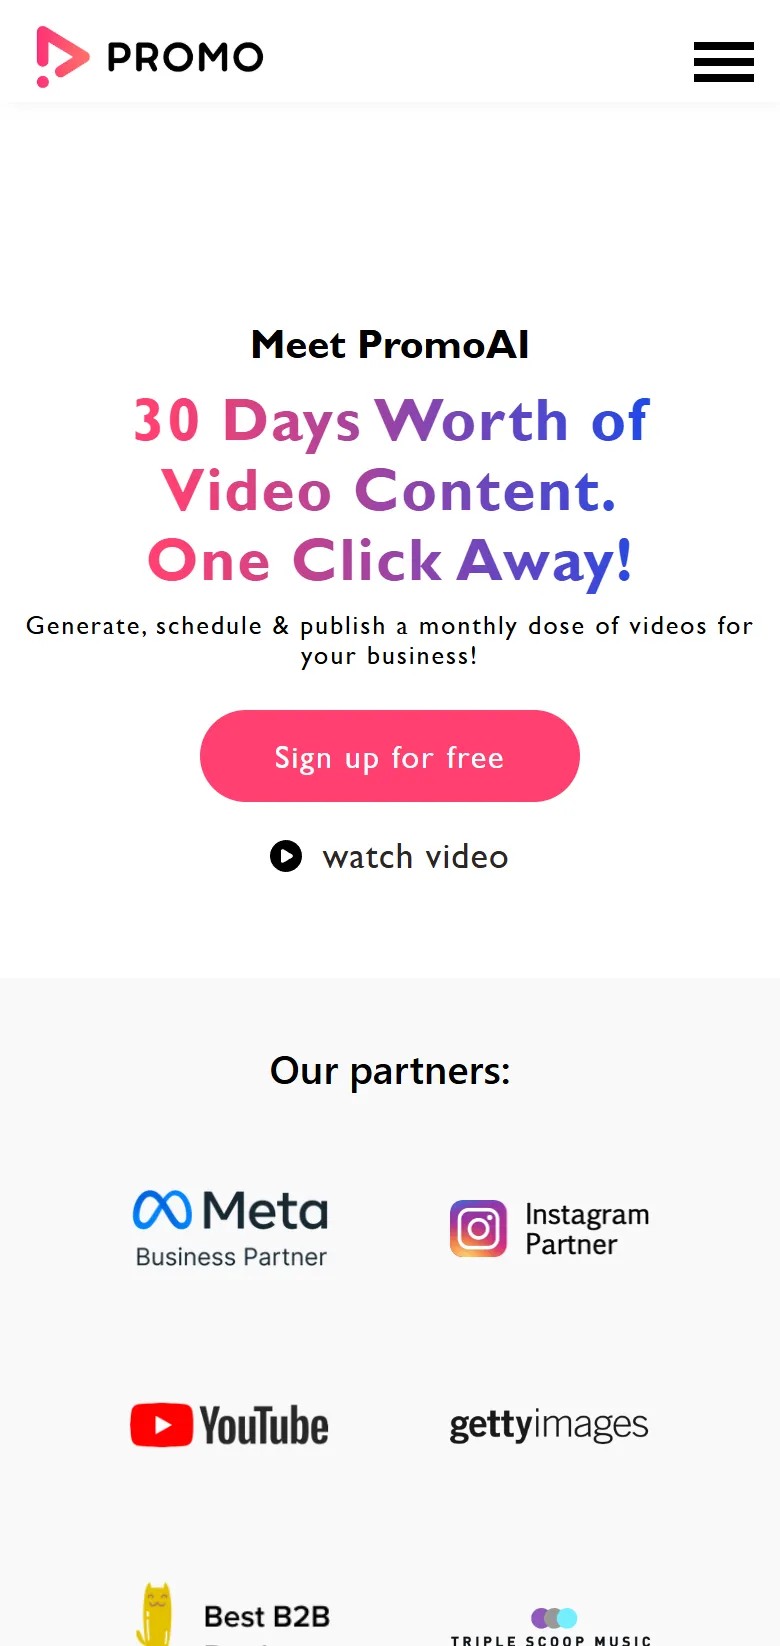
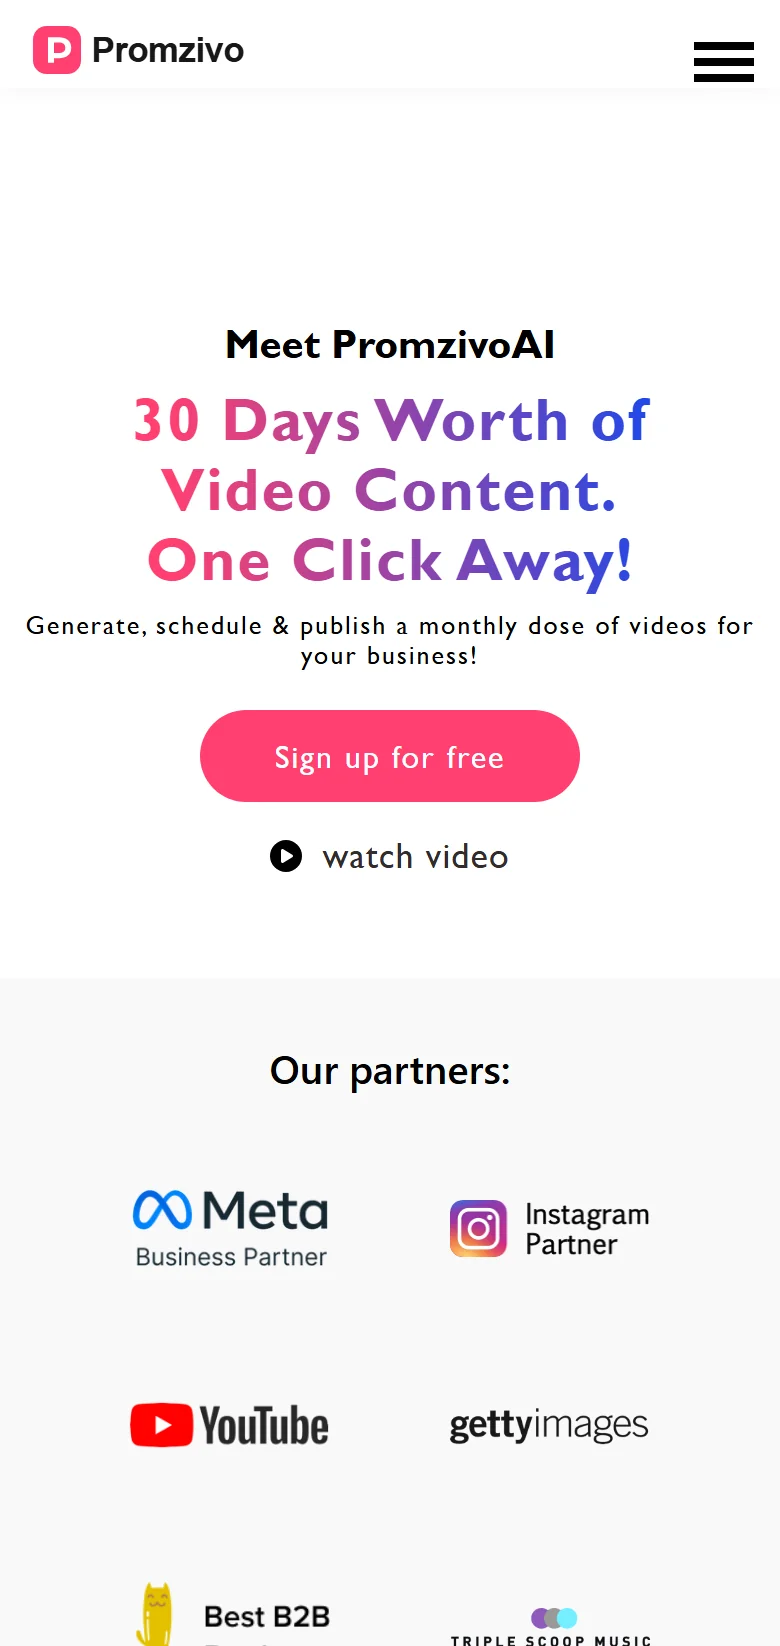
ui changes

Changed region(s): [[0.0308, 0.0, 0.3385, 0.062], [0.2769, 0.1859, 0.7077, 0.2169]]

diff --git a/src/data/portfolio.js b/src/data/portfolio.js
@@ -142,10 +142,10 @@ export const experience = {
 export const projects = [
   {
     id: 'promo',
-    name: 'Promo',
+    name: 'Promzivo',
     badge: 'Fully Responsive',
     description:
-      'Promo is a responsive web project focused on creating a clean and modern user interface that works smoothly across desktop, tablet, and mobile devices.',
+      'Promzivo is a responsive web project focused on creating a clean and modern user interface that works smoothly across desktop, tablet, and mobile devices.',
     highlights: [
       'Responsive web design',
       'Mobile-first layouts',
@@ -167,10 +167,10 @@ export const projects = [
   },
   {
     id: 'dorsin',
-    name: 'Dorsin',
+    name: 'Darsin',
     badge: 'Responsive Mobile Design',
     description:
-      'Dorsin is a responsive web project where I focused on transforming the interface into a clean, responsive experience across desktop, tablet, and mobile screen sizes.',
+      'Darsin is a responsive web project where I focused on transforming the interface into a clean, responsive experience across desktop, tablet, and mobile screen sizes.',
     highlights: [
       'Responsive mobile view',
       'Desktop responsiveness',

diff --git a/src/components/Navbar.jsx b/src/components/Navbar.jsx
@@ -80,7 +80,6 @@ export default function Navbar() {
             </span>
             <span>
               {profile.name}
-              <span className="text-emerald-400">.</span>
             </span>
           </a>
 
